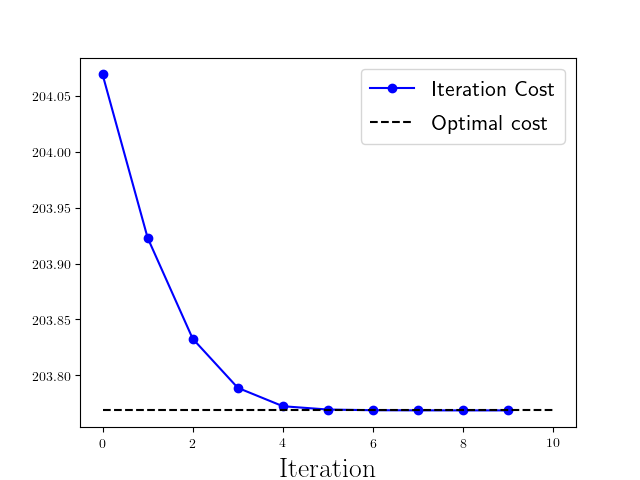
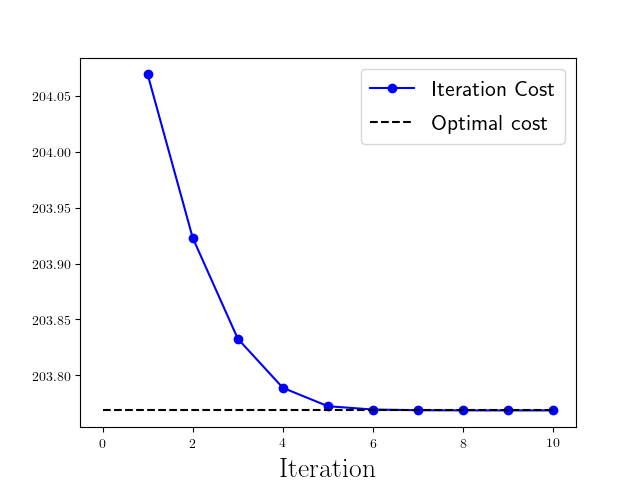
adding README files

diff --git a/LinearLMPC/main.py b/LinearLMPC/main.py
@@ -22,7 +22,7 @@ def main():
 
 	# Initialize FTOCP object
 	N_feas = 10
-	ftocp  = FTOCP(N_feas, A, B, 0.01*Q, R)
+	ftocp_for_mpc  = FTOCP(N_feas, A, B, 0.01*Q, R)
 
 	# ====================================================================================
 	# Run simulation to compute feasible solution
@@ -32,17 +32,16 @@ def main():
 	xt           = x0
 	time         = 0
 
-
 	# time Loop (Perform the task until close to the origin)
 	while np.dot(xt, xt) > 10**(-15):
 		xt = xcl_feasible[time] # Read measurements
 
-		ftocp.solve(xt, verbose = False) # Solve FTOCP
+		ftocp_for_mpc.solve(xt, verbose = False) # Solve FTOCP
 
 		# Read input and apply it to the system
-		ut = ftocp.uPred[:,0][0]
-		ucl_feasible.append(copy.copy(ut))
-		xcl_feasible.append(copy.copy(ftocp.model(xcl_feasible[time], ut)))
+		ut = ftocp_for_mpc.uPred[:,0][0]
+		ucl_feasible.append(ut)
+		xcl_feasible.append(ftocp_for_mpc.model(xcl_feasible[time], ut))
 		time += 1
 
 	print np.round(np.array(xcl_feasible).T, decimals=2)
@@ -55,9 +54,10 @@ def main():
 
 	# Initialize LMPC object
 	N_LMPC = 4 # horizon length
-	ftocp_for_lmpc = FTOCP(N_LMPC, A, B, Q, R) # ftocp solve by LMPC
-	lmpc = LMPC(ftocp_for_lmpc, CVX=False) # Initialize the LMPC decide if you wanna use the CVX hull
+	ftocp = FTOCP(N_LMPC, A, B, Q, R) # ftocp solved by LMPC
+	lmpc = LMPC(ftocp, CVX=True) # Initialize the LMPC (decide if you wanna use the CVX hull)
 	lmpc.addTrajectory(xcl_feasible, ucl_feasible) # Add feasible trajectory to the safe set
+	
 	totalIterations = 10 # Number of iterations to perform
 
 	# run simulation
@@ -70,14 +70,18 @@ def main():
 		time = 0
 		# time Loop (Perform the task until close to the origin)
 		while np.dot(xcl[time], xcl[time]) > 10**(-10):
-			xt = xcl[time] # Read measurements
+			
+			# Read measurement
+			xt = xcl[time] 
 
-			lmpc.solve(xt, verbose = False) # Solve FTOCP
-
-			# Read input and apply it to the system
+			# Solve FTOCP
+			lmpc.solve(xt, verbose = False) 
+			# Read optimal input
 			ut = lmpc.uPred[:,0][0]
-			ucl.append(copy.copy(ut))
-			xcl.append(copy.copy(lmpc.ftocp.model(xcl[time], ut)))
+
+			# Apply optimal input to the system
+			ucl.append(ut)
+			xcl.append(lmpc.ftocp.model(xcl[time], ut))
 			time += 1
 
 		# Add trajectory to update the safe set and value function

diff --git a/NonlinearLMPC/SafeSetQfunction_MixedIntegerFormulation/main.py b/NonlinearLMPC/SafeSetQfunction_MixedIntegerFormulation/main.py
@@ -29,9 +29,9 @@ def main():
 	np.savetxt('storedData/closedLoopFeasible.txt',xclFeasible, fmt='%f' )
 
 	# Initialize LMPC object
-	safeSetOption = 'timeVarying' # Allowed options are 'timeVarying' and 'spaceVarying'
+	safeSetOption = 'timeVarying' # Allowed options are 'timeVarying', 'spaceVarying' and 'all'
 
-	# lmpc = LMPC(ftocp, l='all', P='all') # Basically this is the LMPC from the TAC paper as uses all iteration and data points
+	# lmpc = LMPC(ftocp, l='all', P='all', safeSetOption='all') # Basically this is the LMPC from the TAC paper as uses all iteration and data points
 	# lmpc = LMPC(ftocp, l=3, P=40, safeSetOption=safeSetOption) 
 	# lmpc = LMPC(ftocp, l=3, P=16, safeSetOption=safeSetOption) 
 	# lmpc = LMPC(ftocp, l=2, P=10, safeSetOption=safeSetOption)

diff --git a/NonlinearLMPC/SafeSetQfunction_MixedIntegerFormulation/LMPC.py b/NonlinearLMPC/SafeSetQfunction_MixedIntegerFormulation/LMPC.py
@@ -25,7 +25,7 @@ class LMPC(object):
 		self.P     = P
 		self.zt    = []
 		self.it    = 0
-		self.timeVarying = safeSetOption=='timeVarying' # Tima varying safe set described in new Nonlinear LMPC paper
+		self.safeSetOption = safeSetOption # Tima varying safe set described in new Nonlinear LMPC paper
 		self.itCost = []
 		self.N = ftocp.N
 
@@ -98,7 +98,7 @@ class LMPC(object):
 			# for iteration l compute the set of indices which are closer to zt
 			if self.P =='all':
 				idx = np.arange(0, self.SS[i].shape[1])
-			elif self.timeVarying == True:
+			elif self.safeSetOption == 'timeVarying':
 				idx = self.timeSS(i)
 			else:
 				idx = self.closeToSS(i)

diff --git a/LinearLMPC/plot.py b/LinearLMPC/plot.py
@@ -62,8 +62,7 @@ for i in range(1,it):
 	xcl = np.array(lmpc.SS[i]).T
 	totCost.append(lmpc.Qfun[i][0])
 
-	
-plt.plot(totCost, '-ob', label='Iteration Cost')
+plt.plot(range(1, it, 1),totCost, '-ob', label='Iteration Cost')
 plt.plot([0, it-1], [lmpc.optCost, lmpc.optCost], '--k', label='Optimal cost')
 
 plt.xlabel('$\mathrm{Iteration}$', fontsize=20)

diff --git a/NonlinearLMPC/SafeSetQfunction_MixedIntegerFormulation/README.md b/NonlinearLMPC/SafeSetQfunction_MixedIntegerFormulation/README.md
@@ -1,0 +1,34 @@
+# Nonlinear LMPC
+
+This code runs the LMPC to compute a (local) optimal solution to the following miminum time optimal control problem.
+
+<p align="center">
+<img src="https://github.com/urosolia/LMPC/blob/master/NonlinearLMPC/SafeSetQfunction_MixedIntegerFormulation/readmeFigures/minimumTimeProblem.png" width="500" />
+</p>
+
+The optimal solution to the above control problem steers the dubins car from the starting point x_s to the terminal point x_F while avoiding an obstacle and satisfying input constraints. 
+
+The left figure below show the closed-loop trajectory at convergence, the first feasible trajectory and the stored data from the previous iterations. We notice that the LMPC avoids the obstacle and almost saturates the input acceleration constraints (right figure), as expected from the (local) optimal solution to minimum time optimal control problem.
+
+<p align="center">
+<img src="https://github.com/urosolia/LMPC/blob/master/NonlinearLMPC/SafeSetQfunction_MixedIntegerFormulation/readmeFigures/iterationEvolution.png" width="420" />
+<img src="https://github.com/urosolia/LMPC/blob/master/NonlinearLMPC/SafeSetQfunction_MixedIntegerFormulation/readmeFigures/velocityAcceleration.png" width="420" />
+</p>
+
+## LMPC Key Idea and Files
+
+We propose to solve the above minimum time optimal control problem iteratively. We perform the task repeatedly and we use the closed-loop data to synthesize the LMPC policy. This folder contains the following files:
+
+1) main.py: this file runs the closed-loop simulations.
+2) LMPC.py: the lmpc object is used to store the file and to construct the the safe set and value function approximation which define the LMPC (Set safeSetOption = 'timeVarying' for the LMPC from [1], set safeSetOption = 'spaceVarying' for the local LMPC from [2] and l='all', P='all' and  safeSetOption = 'all' to implement the LMPC from [3]).
+3) FTOCP.py: the ftocp object solves a finite time optimal control problem given the initial condition x_t, a terminal contraint set and a terminal cost function.
+4) plot.py: run this files after main.py to plot the closed-loop trajectory, the closed-loop iteration cost and the comparison for different LMPC policies synthesized with different numbers of data points.
+
+## References
+
+[1] Ugo Rosolia and Francesco Borrelli. "Nonlinear  Learning  Model  Predictive  Control  for Time  Optimal  Control  Problems" submitted (Available soon).
+
+[2] Ugo Rosolia. "Learning Model Predictive Control: Theory and Application." PhD Thesis (Available soon).
+
+[3] Ugo Rosolia and Francesco Borrelli. "Learning Model Predictive Control for Iterative Tasks. A Data-Driven Control Framework." In IEEE Transactions on Automatic Control (2017). [PDF](https://ieeexplore.ieee.org/document/8039204/)
+

diff --git a/NonlinearLMPC/SafeSetQfunction_NonlinearFormulation/README.md b/NonlinearLMPC/SafeSetQfunction_NonlinearFormulation/README.md
@@ -1,0 +1,33 @@
+# Nonlinear LMPC
+
+This code runs the LMPC to compute a (local) optimal solution to the following miminum time optimal control problem.
+
+<p align="center">
+<img src="https://github.com/urosolia/LMPC/blob/master/NonlinearLMPC/SafeSetQfunction_NonlinearFormulation/readmeFigures/minimumTimeProblem.png" width="500" />
+</p>
+
+The optimal solution to the above control problem steers the dubins car along a curve of radius R, from the starting point x_s to the terminal point x_F in minimum time. We initialize the LMPC using the following first feasible trajectory.
+
+<p align="center">
+<img src="https://github.com/urosolia/LMPC/blob/master/NonlinearLMPC/SafeSetQfunction_NonlinearFormulation/readmeFigures/feasibleTrajectory.png" width="500" />
+</p>
+
+After few iterations the LMPC converges to a steady-state behavior which saturates both the road boundaries and the input acceleration constraints, as expected from the (local) optimal solution to minimum time optimal control problem.
+
+<p align="center">
+<img src="https://github.com/urosolia/LMPC/blob/master/NonlinearLMPC/SafeSetQfunction_NonlinearFormulation/readmeFigures/closedLoopTrajectory.png" width="420" />
+<img src="https://github.com/urosolia/LMPC/blob/master/NonlinearLMPC/SafeSetQfunction_NonlinearFormulation/readmeFigures/inputAtConvergence.png" width="420" />
+</p>
+
+## LMPC Key Idea and Files
+
+We propose to solve the above minimum time optimal control problem iteratively. We perform the task repeatedly and we use the closed-loop data to synthesize the LMPC policy. This folder contains the following files:
+
+1) main.py: this file runs the closed-loop simulations.
+2) LMPC.py: the lmpc object is used to store the file and to construct the the safe set and value function approximation which define the LMPC policy from [1].
+3) FTOCP.py: the ftocp object solves a finite time optimal control problem given the initial condition x_t, a terminal contraint set and a terminal cost function.
+4) plot.py: run this files after main.py to plot the closed-loop trajectory, the closed-loop iteration cost and the comparison for different LMPC policies synthesized with different numbers of data points.
+
+## References
+
+[1] Ugo Rosolia and Francesco Borrelli. "Nonlinear  Learning  Model  Predictive  Control  for Time  Optimal  Control  Problems" submitted (Available soon).

diff --git a/NonlinearLMPC/README.md b/NonlinearLMPC/README.md
@@ -1,0 +1,19 @@
+# LMPC for nonlinear systems
+
+This folder contains two implementations of the LMPC for nonlinear minimum time optimal control problems.
+
+## Mixed Integer Formulation
+
+In the folder "SafeSetQfunction_MixedIntegerFormulation" we implemented the LMPC which uses either the time-varying sampled safe set [1], the local sampled safe set [2] or the sampled safe set [3]. At each time step, the control action is computed after solving a mixed integer nonlinear programming. We implemented the algorthms to handle the integer variables and we used IPOPT to solve the nonlinear programming. More details on the strategy used to handle the integer variables can be found in [3, Section V.2)].
+
+## Nonlinear Formulation
+
+In the folder "SafeSetQfunction_NonlinearFormulation" we implemented the LMPC which used the time-varying convex safe set [1]. The resulting time-varying LMPC is reformilated as a nonlinear programming which is solved using IPOPT.
+
+## References 
+
+[1] Ugo Rosolia and Francesco Borrelli. "Nonlinear  Learning  Model  Predictive  Control  for Time  Optimal  Control  Problems" submitted (Available soon).
+
+[2] Ugo Rosolia. "Learning Model Predictive Control: Theory and Application." PhD Thesis (Available soon).
+
+[3] Ugo Rosolia and Francesco Borrelli. "Learning Model Predictive Control for Iterative Tasks. A Data-Driven Control Framework." In IEEE Transactions on Automatic Control (2017). [PDF](https://ieeexplore.ieee.org/document/8039204/)
